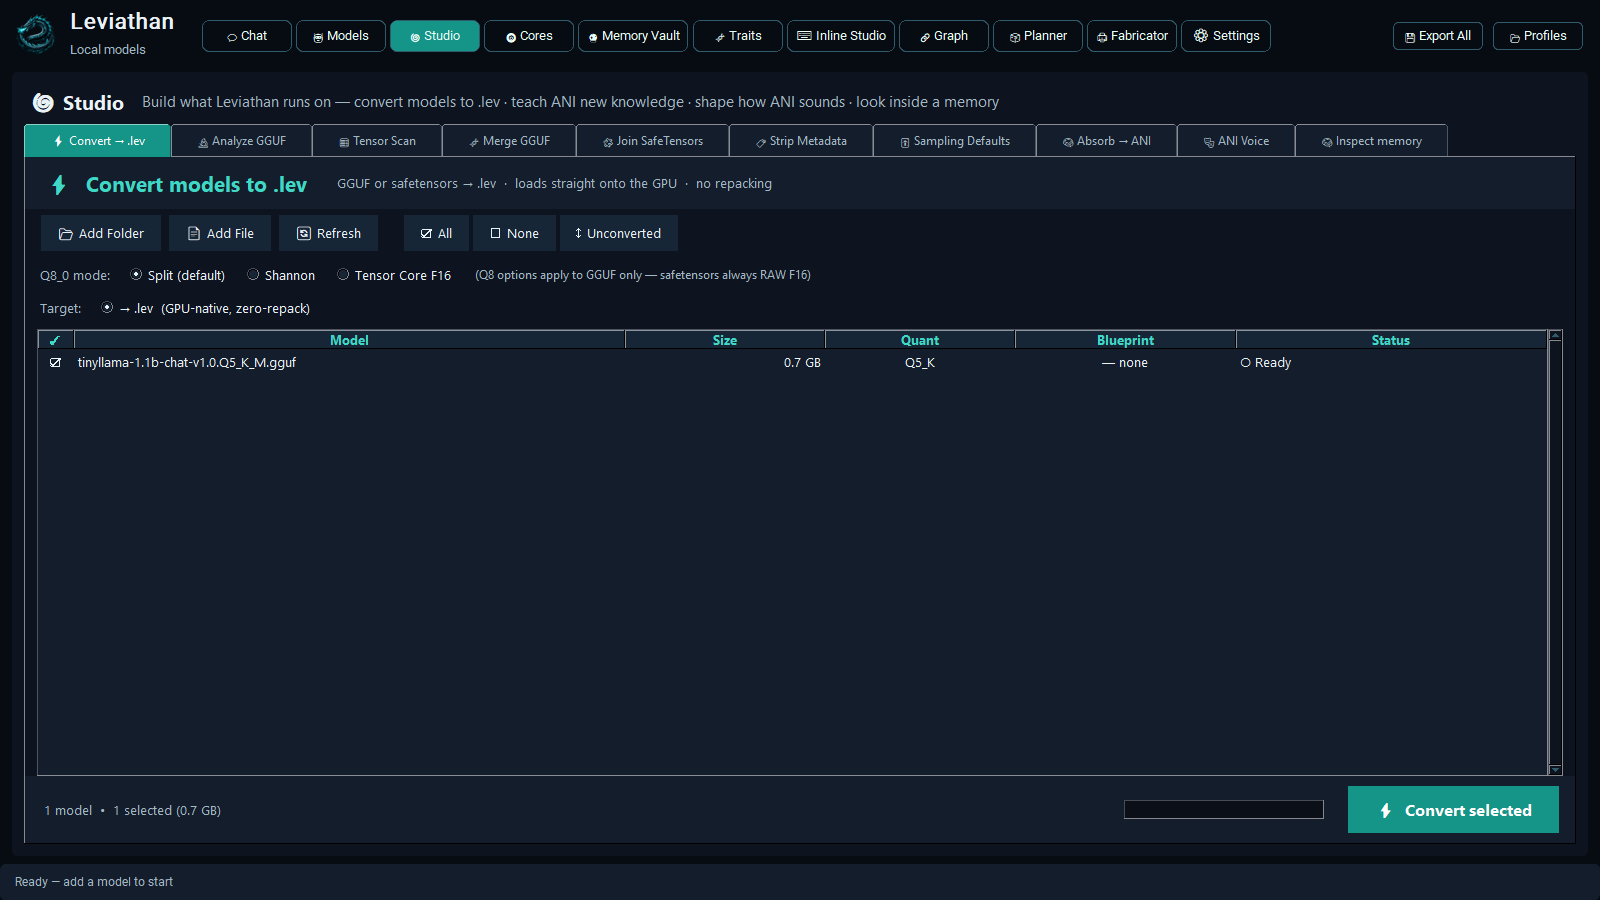
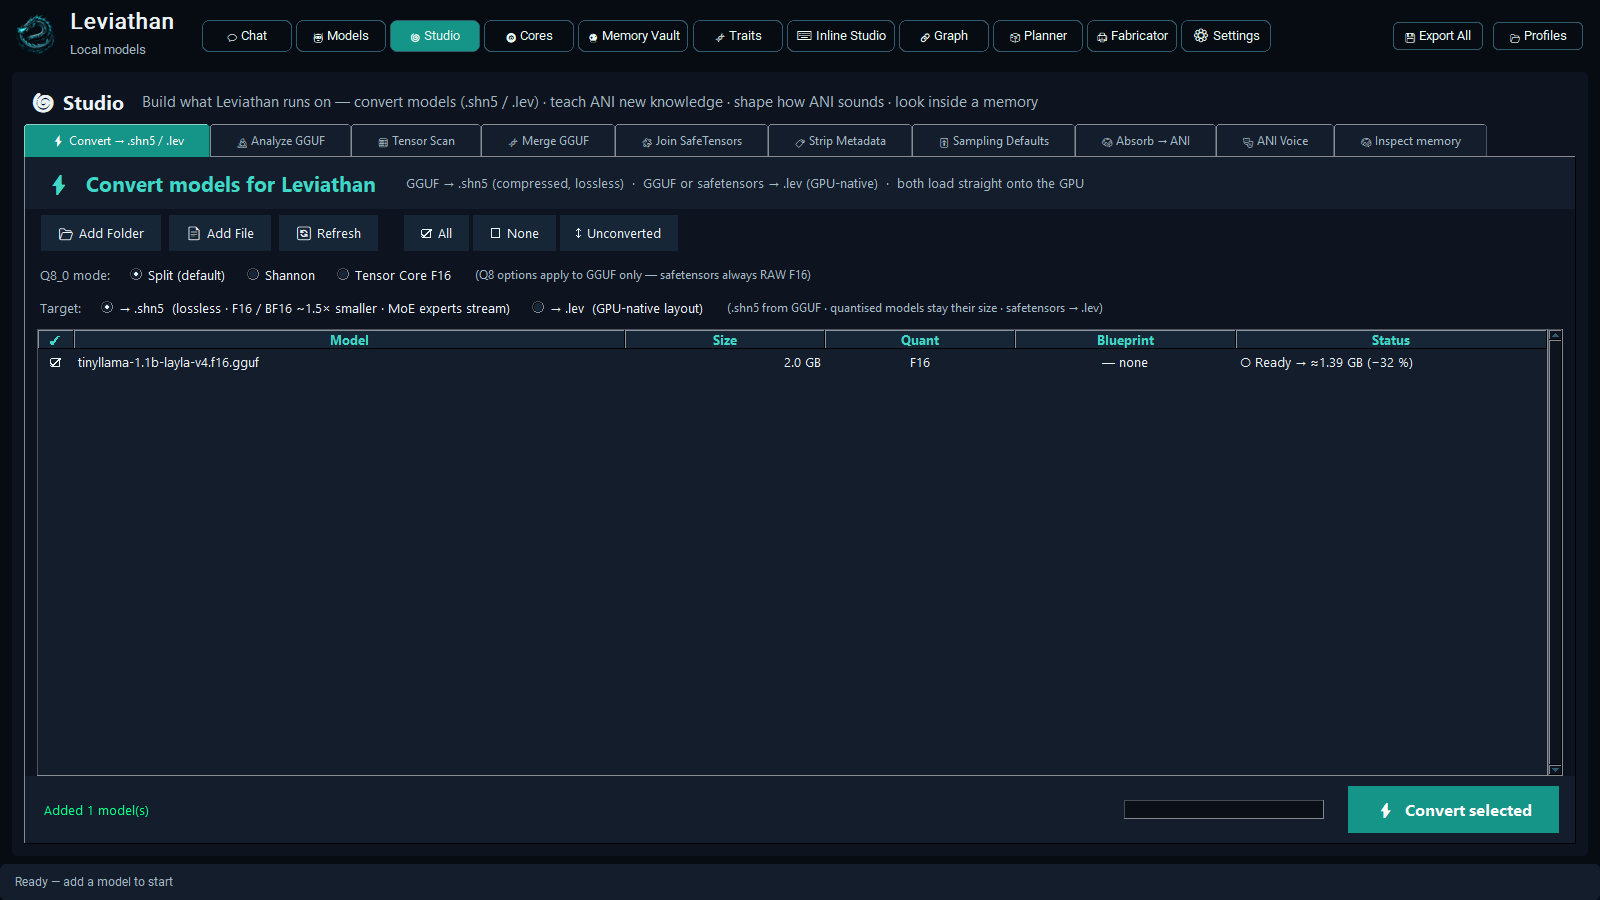
Large Update

diff --git a/README.md b/README.md
@@ -12,6 +12,8 @@ What makes it different from the other ways of running a model locally is what h
 
 > **Leviathan is the host. The model is the guest.**
 
+*Built with Claude Code by Michael Ricky Neal and Claude, Anthropic's AI, working together: Michael is the imagination, Claude the logic. Two sides of the same coin.*
+
 <a name="see-it-running"></a>
 ### 🔹 See it running
 
@@ -71,7 +73,7 @@ The first time you open Leviathan, a welcome card sits over the chat window with
 
 The three steps are:
 
-1. **Convert a model.** Take a `.gguf` model file — the standard format you will find on Hugging Face — and convert it in **Studio → Convert**. You get a `.lev` file. This is a one-time job per model.
+1. **Convert a model.** Take a `.gguf` model file — the standard format you will find on Hugging Face — and convert it in **Studio → Convert**. You get a `.shn5` file: the model, compressed without losing anything (or a `.lev`, if you pick that instead). This is a one-time job per model.
 2. **Load it.** In **Models**, add it as a Leviathan model. It goes straight onto your GPU. No server starts, nothing listens on a port.
 3. **Talk to it.** Type in the chat box and press Start.
 
@@ -84,7 +86,7 @@ Everything after that is optional. Leviathan is fully usable knowing only those 
 
 This is the part most people find confusing, and it is worth five minutes because everything else in Leviathan is built on it. There are two kinds of file — the model, and its memory — they do two completely different jobs, and they are not alternatives to one another. (There is a third thing — a **knowledge bank** — but it belongs to no one model; it is text, and it gets its own short section below.)
 
-A rough analogy, if it helps: if the model is a **person**, then `.lev` is their brain and `.mem` is their memory of your conversations. Knowledge banks are the books on their shelf — text they can reach for when a question calls for it, not part of the brain itself.
+A rough analogy, if it helps: if the model is a **person**, then `.lev` (or its compressed twin, `.shn5`) is their brain and `.mem` is their memory of your conversations. Knowledge banks are the books on their shelf — text they can reach for when a question calls for it, not part of the brain itself.
 
 ---
 
@@ -94,9 +96,22 @@ A rough analogy, if it helps: if the model is a **person**, then `.lev` is their
 
 **Why it exists:** a normal `.gguf` model file has to be unpacked and rearranged before the GPU can use it, every single time you load it. A `.lev` is already in the right shape, so it goes from disk to graphics card with no reshuffling in between. It loads faster and it is what every other Leviathan feature expects to find.
 
-**How you get one:** **Studio → Convert**. Point it at a `.gguf`, wait, get a `.lev`. Once per model, then never again.
+**How you get one:** **Studio → Convert** with the target set to `.lev` (the default is its compressed twin, [`.shn5`](#shn5), below). Point it at a `.gguf` or a safetensors model, wait, get a `.lev`. Once per model, then never again.
 
-**Do I have to?** To use Leviathan's GPU engine, yes. If a model is refused during conversion, that is deliberate — see [What Leviathan will not do]
+**Do I have to?** To use Leviathan's GPU engine, yes: a `.lev` or a `.shn5`. If a model is refused during conversion, that is deliberate — see [What Leviathan will not do]
+
+<a name="shn5"></a>
+### 🔹 `.shn5` — the same model, compressed
+
+**What it is:** the same model as a `.lev`, packed smaller. It is lossless: Leviathan running a `.shn5` gives exactly the same numbers as running the `.lev` of the same model, bit for bit, and every piece is checked as it unpacks, so a damaged file is refused instead of run.
+
+**How much smaller:** about **1.5×** for a model stored at full precision, F16 or BF16 (measured: 1.51× on BF16, 1.48× on F16). A quantised download (Q4_K_M, Q8_0, the IQ types…) stays the size it is: its numbers are already packed, so they are stored as they come. **Studio → Convert** shows each model's expected size before you start, so you can see which kind you have.
+
+**What it costs:** nothing you will notice. It unpacks on the graphics card as it loads, at about 110 GB/s on an RTX 4080; a 2 GB model loaded in 0.70 s, slightly faster than its `.lev` (0.77 s).
+
+**Mixtures of experts:** each expert is stored as its own block, ready for *expert streaming*: the experts wait in your computer's memory and only the ones a word needs come to the card, which lets a MoE model bigger than your graphics card run. The engine does this today; the switch for it in the app is still to come.
+
+**How you get one:** **Studio → Convert**, which makes a `.shn5` by default from any `.gguf` (safetensors models convert to `.lev`). Then **Models → 🗜 Add compressed model**.
 
 ---
 
@@ -168,6 +183,7 @@ Where models are connected, configured and saved.
 **Connecting a model**
 
 - **⚡ Leviathan** — a `.lev` file on your GPU. This is the main path and the one everything else is built around. Pick the file, give the model a name and a **Temperature** (it starts at the model file's own default when the file carries one, otherwise 0.7).
+- **🗜 Compressed** — the same for a [`.shn5`](#shn5): the same engine and the same dialog, which says what the file is.
 - **+ Ollama** — a model served by a local Ollama install. The **llama3 / mistral / phi3 / gemma2** quick buttons are one-click shortcuts for these.
 - **+ API Model** — any OpenAI-compatible endpoint, local or remote.
 - **🌐 Grok** — xAI's hosted model. Paste your xAI API key and pick the model; the current price per million tokens is shown next to it so you are not choosing blind.
@@ -187,7 +203,7 @@ Each connected model gets a row showing where it runs and its file or model name
 
 **Double-click a model** to open its settings:
 
-- **Display Name / Model Name / Endpoint** — what it is called, which model it is, and where it lives (a file path for a `.lev`, a URL for a server).
+- **Display Name / Model Name / Endpoint** — what it is called, which model it is, and where it lives (a file path for a `.lev` or `.shn5`, a URL for a server).
 - **System Prompt** — the standing instructions the model follows in every reply. Leviathan fills in a warm default that tells the model who it is and whether it's talking with you alone or with other models too. Replace it with whatever you want the model to be, and your words are sent whole, exactly as you wrote them; clear the box to go back to the default.
 - **Temp** — how adventurous its wording is. Lower is steadier and more predictable, higher is looser and more varied. 0 always picks the likeliest word; 0.7 is the usual default; up to 2 for the wildest. A model file can carry its own default (set with Studio → **Sampling Defaults**), and Leviathan starts there.
 - **Reply length is no longer set here.** It used to be a per-model *Max Tokens* field; it is now a **Token budget** set once per surface in **Settings → Token budget** — a slider from 512 up to ∞ — so one setting governs every model on that surface instead of each one carrying its own. The dialog shows *Tokens: Settings → Token budget* as a reminder. (It still matters as much as it ever did: a model held to 512 gives you a paragraph or two; the same model at ∞ can write you a whole document — see [Settings].)
@@ -209,12 +225,13 @@ Routes work only from what the two models already know. They do not browse the w
 <a name="studio"></a>
 ### 🔷 Studio
 
-<p align="center"><img src="screenshots/studio-convert.png" width="900" alt="Studio's Convert to .lev tool listing a GGUF ready to convert" /></p>
+<p align="center"><img src="screenshots/studio-convert.png" width="900" alt="Studio's Convert tool listing an F16 GGUF, ready to become a .shn5 of about 1.39 GB, a third smaller" /></p>
 
 Where you build the things Leviathan runs on. Nearly every control has a sensible default; the notes below tell you which ones are worth touching and which to leave alone.
 
-**🔹 Convert → .lev**
-Turns a `.gguf` (or a safetensors model folder) into a `.lev`, the format Leviathan actually runs on. The first thing you will use, and a one-time job per model. If a model is not supported, it is refused here — with an explanation of exactly which parts Leviathan does not understand — *before* the multi-gigabyte conversion starts, not after.
+**🔹 Convert → .shn5 / .lev**
+Turns a `.gguf` into a [`.shn5`](#shn5) (the default) or a `.lev`, the forms Leviathan actually runs on; a safetensors model folder converts to `.lev`. The first thing you will use, and a one-time job per model. If a model is not supported, it is refused here — with an explanation of exactly which parts Leviathan does not understand — *before* the multi-gigabyte conversion starts, not after.
+- **Target** — `.shn5` or `.lev`. With `.shn5` selected, each model's row shows the file it will make: *≈4.36 GB (−32 %)* for a 6.4 GB F16 model, or *same size (quantised)* for an already-packed one, so you know before you start.
 - **Model list** — every model Leviathan found, with buttons to select **All**, **None**, or just the **Unconverted** ones. Tick what you want and convert in a batch.
 - **Q8_0 mode** — how eight-bit models are laid out. **Split (default)** is the safe choice and what you want almost always. *Shannon* and *Tensor Core F16* are alternative layouts for particular cards; leave it on Split unless you have a specific reason. (Applies to `.gguf` only — safetensors always convert as raw F16.)
 - **Which downloads stay compact** — all of the usual ones. Leviathan computes directly on Q2_K, Q3_K, Q4_K, Q5_K, Q6_K, Q8_0, Q4_0, Q4_1, Q5_0, Q5_1, every IQ type (IQ1_S, IQ1_M, IQ2_XXS, IQ2_XS, IQ2_S, IQ3_XXS, IQ3_S, IQ4_NL, IQ4_XS), F16, BF16 and F32, so a `.lev` is the size of the `.gguf` — the `_K_M` / `_K_S` / `_K_L` mixes, the imatrix "IQ" files and MoE models included. (For scale: a 32B model at IQ3_XXS is about a 13 GB file.) The rare leftovers (ternary TQ1_0/TQ2_0, MXFP4) are turned into F16; the converter says so and says how much bigger the file got.
@@ -230,7 +247,7 @@ Lists every tensor in a model — shape, type, layer and role — with statistic
 <p align="center"><img src="screenshots/studio-scan.png" width="900" alt="Tensor Scan listing Qwen 2.5 Coder 7B's 339 tensors with their shapes, types and statistics" /></p>
 
 **🔹 Merge GGUF**
-Model merging in a window: [mergekit](https://github.com/arcee-ai/mergekit)'s core methods — Linear, SLERP, TIES, DARE and Add difference (task arithmetic) — run straight on `.gguf` files. No Python, no YAML config, and no converting back to safetensors first. It combines two to four fine-tunes of the same base model (**+ Add model** for a third and fourth) into a new `.gguf`: it reads any quantization (Q4_K, Q6_K, Q8_0, IQ, F16, BF16), merges at full precision and writes an unquantized F16 file — about 2 bytes per parameter, so a 7B model comes to roughly 15 GB. Quantize it afterwards, or convert it to `.lev`. **Check** confirms the models fit together (same architecture, tokenizer and tensor shapes) and shows the output size before anything is written; **Cancel** stops cleanly and leaves no half-written file.
+Model merging in a window: [mergekit](https://github.com/arcee-ai/mergekit)'s core methods — Linear, SLERP, TIES, DARE and Add difference (task arithmetic) — run straight on `.gguf` files. No Python, no YAML config, and no converting back to safetensors first. It combines two to four fine-tunes of the same base model (**+ Add model** for a third and fourth) into a new `.gguf`: it reads any quantization (Q4_K, Q6_K, Q8_0, IQ, F16, BF16), merges at full precision and writes an unquantized F16 file — about 2 bytes per parameter, so a 7B model comes to roughly 15 GB. Quantize it afterwards, or convert it to `.shn5` (about 10 GB, losing nothing) or `.lev`. **Check** confirms the models fit together (same architecture, tokenizer and tensor shapes) and shows the output size before anything is written; **Cancel** stops cleanly and leaves no half-written file.
 - **Linear** — blend the models (*Weight of A* with two; a *Weight* per model with three or four, used as shares).
 - **SLERP** — blend two models along the arc between them (*Weight of A*). Two models only: add a third and it switches to Linear and says so.
 - **TIES** and **DARE** — combine what each fine-tune changed relative to their shared **base model** (*Density* or *Drop*, and *Strength*; with three or four, each model's *Weight* counts in the vote and the mean). Without a base model, Model A is treated as the base.
@@ -261,7 +278,7 @@ Lists the keys that record where a model came from — source and repository lin
 <p align="center"><img src="screenshots/studio-strip.png" width="900" alt="Strip Metadata listing the provenance keys a GGUF carries" /></p>
 
 **🔹 Sampling Defaults**
-Bakes default sampling settings — temperature, top-p, top-k, min-p and repeat penalty — into a copy of a `.gguf` as llama.cpp's own `general.sampling.*` keys. They travel with the file: llama.cpp uses them whenever you don't pass the flag yourself, while other apps may ignore them. Leviathan takes the temperature as the starting value when you add the model (it's carried into a `.lev` when you convert), and you can change it any time in the model's settings. Four presets (Creative, Balanced, Coherent, Code-Focused), and you can save your own.
+Bakes default sampling settings — temperature, top-p, top-k, min-p and repeat penalty — into a copy of a `.gguf` as llama.cpp's own `general.sampling.*` keys. They travel with the file: llama.cpp uses them whenever you don't pass the flag yourself, while other apps may ignore them. Leviathan takes the temperature as the starting value when you add the model (it's carried into the `.shn5` or `.lev` when you convert), and you can change it any time in the model's settings. Four presets (Creative, Balanced, Coherent, Code-Focused), and you can save your own.
 
 <p align="center"><img src="screenshots/studio-sampling.png" width="900" alt="Sampling Defaults with the Code-Focused preset applied, ready to bake into a GGUF" /></p>
 
@@ -319,7 +336,7 @@ Each model gets its own core. They do not pool, and no model reads another's mem
 
 *Each model's memory · lines of text.*
 
-The archive. Every model's memory first — each counted in **lines of text**: how many lines it holds, how many are its PMB (you and it) and how many its MPM (its conversations with other models), when it was last used, and its size on disk. Click one for the detail, and **🧠 Read every line in Studio** opens it in [Inspect memory]. Below the memories, every model file Leviathan can see (`.lev` and `.gguf`), read from the file's own header: its architecture, exact parameter count, layers and size.
+The archive. Every model's memory first — each counted in **lines of text**: how many lines it holds, how many are its PMB (you and it) and how many its MPM (its conversations with other models), when it was last used, and its size on disk. Click one for the detail, and **🧠 Read every line in Studio** opens it in [Inspect memory]. Below the memories, every model file Leviathan can see (`.lev`, `.shn5` and `.gguf`), read from the file's own header: its architecture, exact parameter count, layers and size (a `.shn5` also shows how much smaller it is).
 
 - **📁 Add Folder** brings in a folder from anywhere on your machine. Your models do not have to live where Leviathan put them.
 - **🧹** frees the memory the app itself is holding (caches, the scan); your files are not touched.
@@ -584,7 +601,7 @@ The tabs above are the surfaces — what you open, click and type into. These ar
 **How ANI speaks — her voice.** ANI *finds* the right knowledge, but reading it back as a fluent answer needs a small generator to phrase it — a voice. Here is the honest shape of it, because it's the question most people ask first ("why is there a model in settings — why not just use my own?"):
 
 - **ANI uses your own loaded model.** When you have a chat model mounted, ANI speaks through *it* — for free, no extra memory. Your model is her voice. That is the normal case, and it's exactly what you'd expect.
-- **A small model of yours can stand in when nothing is loaded.** Leviathan ships no model of its own; you bring yours. So that ANI can still answer when you *haven't* mounted a chat model, you can point **Settings → ANI → ANI binder** at a small `.lev` of your own (a 1B ~1 GB or a 3B ~2 GB is plenty), and it becomes her voice in that moment. **The instant you load a chat model, that binder is freed** — it never sits alongside yours competing for VRAM, and it never overrides your model. It's a backup voice, not a second brain.
+- **A small model of yours can stand in when nothing is loaded.** Leviathan ships no model of its own; you bring yours. So that ANI can still answer when you *haven't* mounted a chat model, you can point **Settings → ANI → ANI binder** at a small `.lev` or `.shn5` of your own (a 1B ~1 GB or a 3B ~2 GB is plenty), and it becomes her voice in that moment. **The instant you load a chat model, that binder is freed** — it never sits alongside yours competing for VRAM, and it never overrides your model. It's a backup voice, not a second brain.
 - **It only ever phrases.** The binder speaks *only* from the knowledge ANI retrieved, held to it by a grounding check: a reply that strays from what she found is dropped, and you get the retrieved text instead. The knowledge is ANI's; the binder just gives it a mouth.
 - **Entirely optional, and off-switchable.** Leave the binder field blank and nothing extra ever loads. And **Settings → ANI → ANI background voice** turns the whole thing off: ANI then speaks only through your loaded model, or hands back the retrieved knowledge as plain text. ANI itself stays on either way — this only ever decides her *voice*, never whether she works.
 
@@ -877,6 +894,8 @@ Some of this is deliberate. It is worth stating plainly rather than leaving you 
 
 **Leviathan** — Michael Ricky Neal · © 2026
 
+**Built by two of us:** Michael Ricky Neal and Claude, Anthropic's AI, working together in Claude Code. Most of what Leviathan is comes from Michael's imagination: the ideas, the designs, the calls. Claude is the logic side: most of the code and the testing. Two sides of the same coin.
+
 Licensed under **MIT License**.
 
 - **Full licence:** https://spdx.org/licenses/MIT.html
@@ -887,3 +906,5 @@ Licensed under **MIT License**.
 All three are linked from **Settings → About** inside the app.
 
 <sub>Vulkan and the Vulkan logo are registered trademarks of the Khronos Group Inc.</sub>
+
+<sub>Claude and Claude Code are trademarks of Anthropic PBC.</sub>
